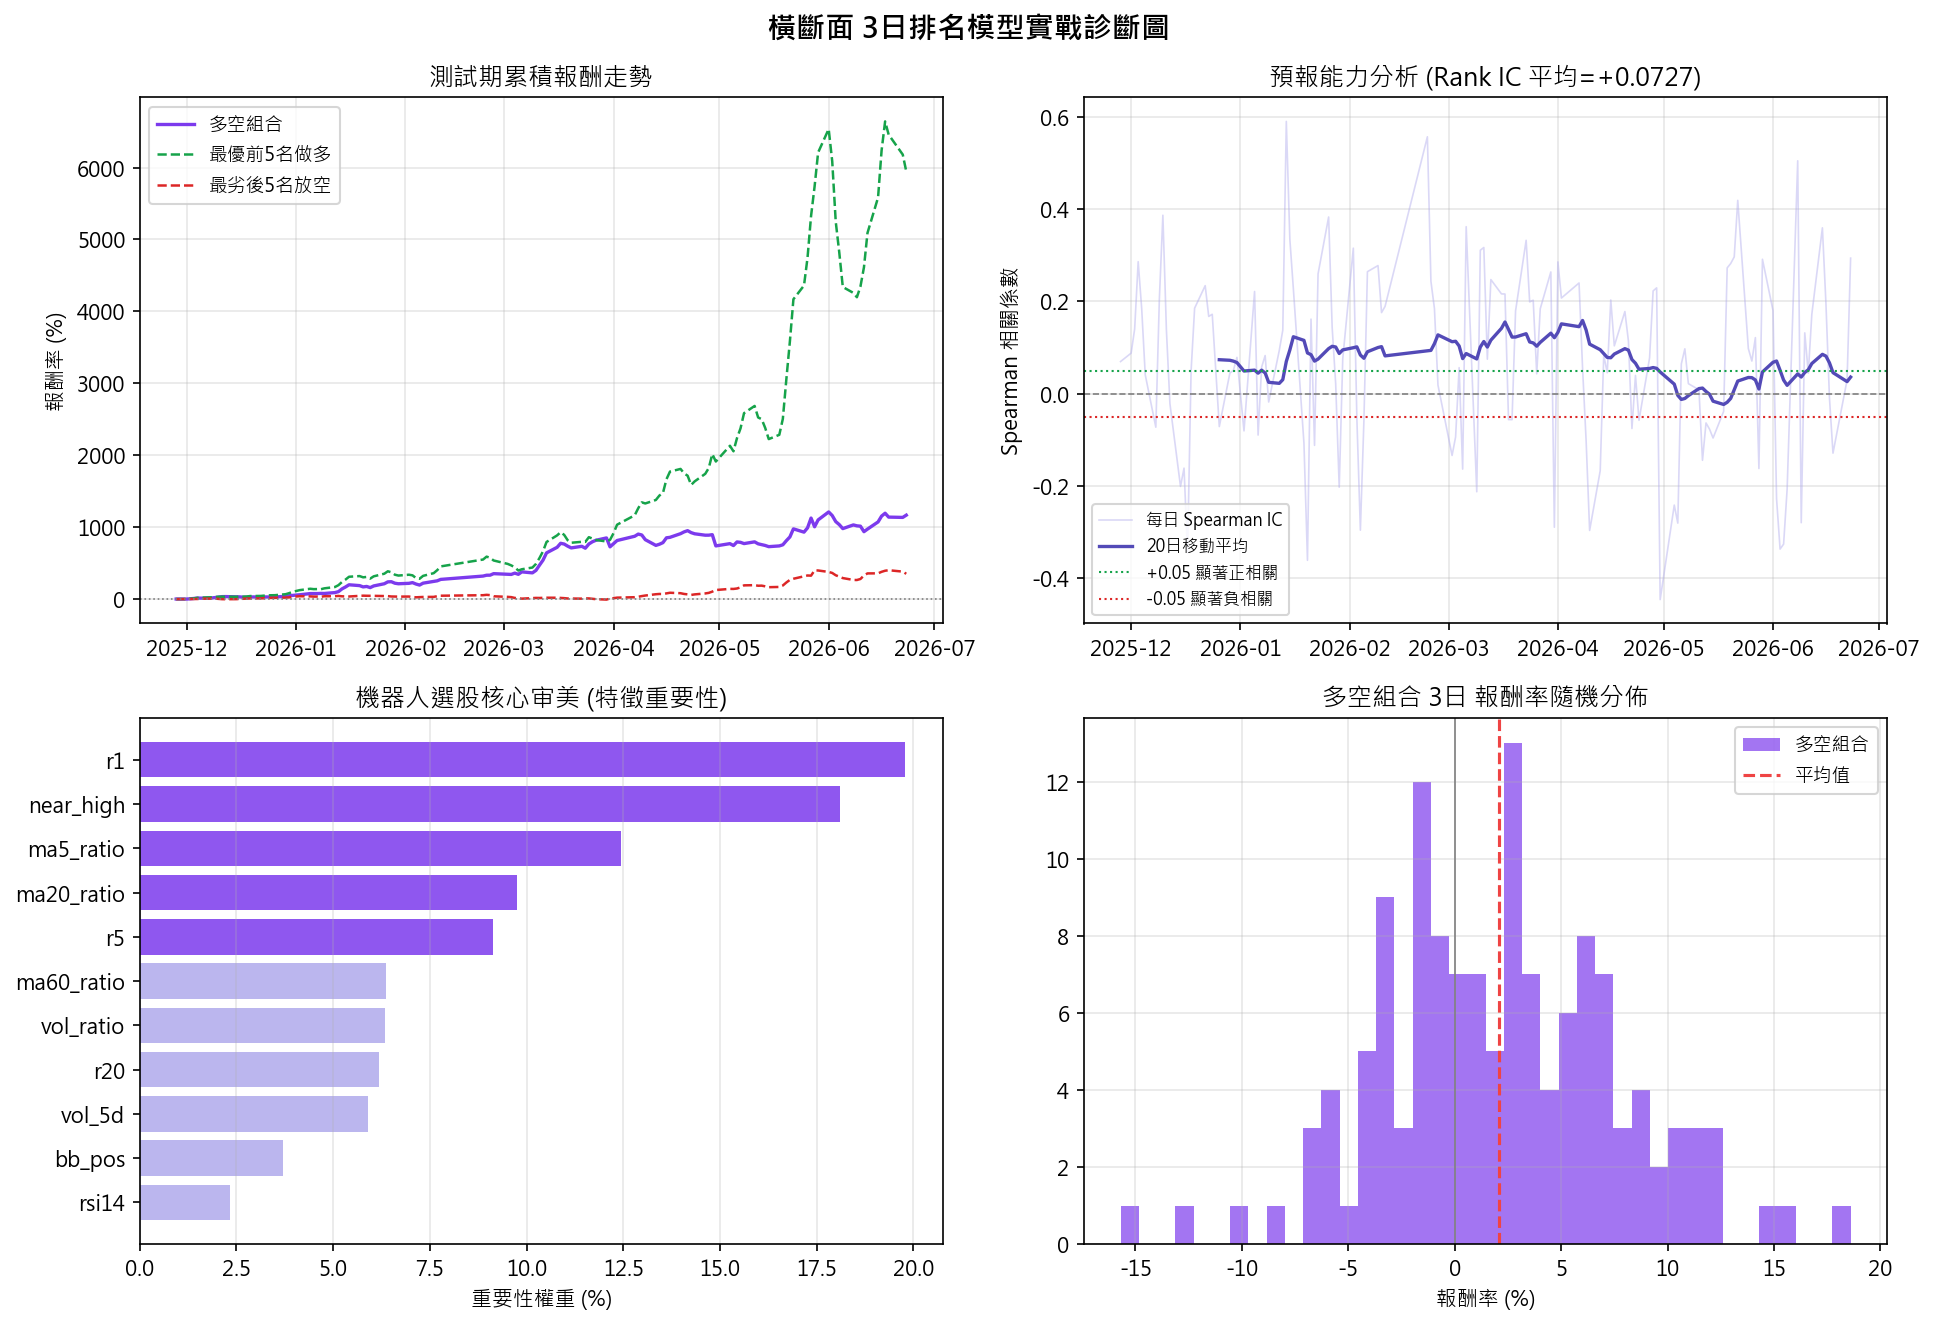
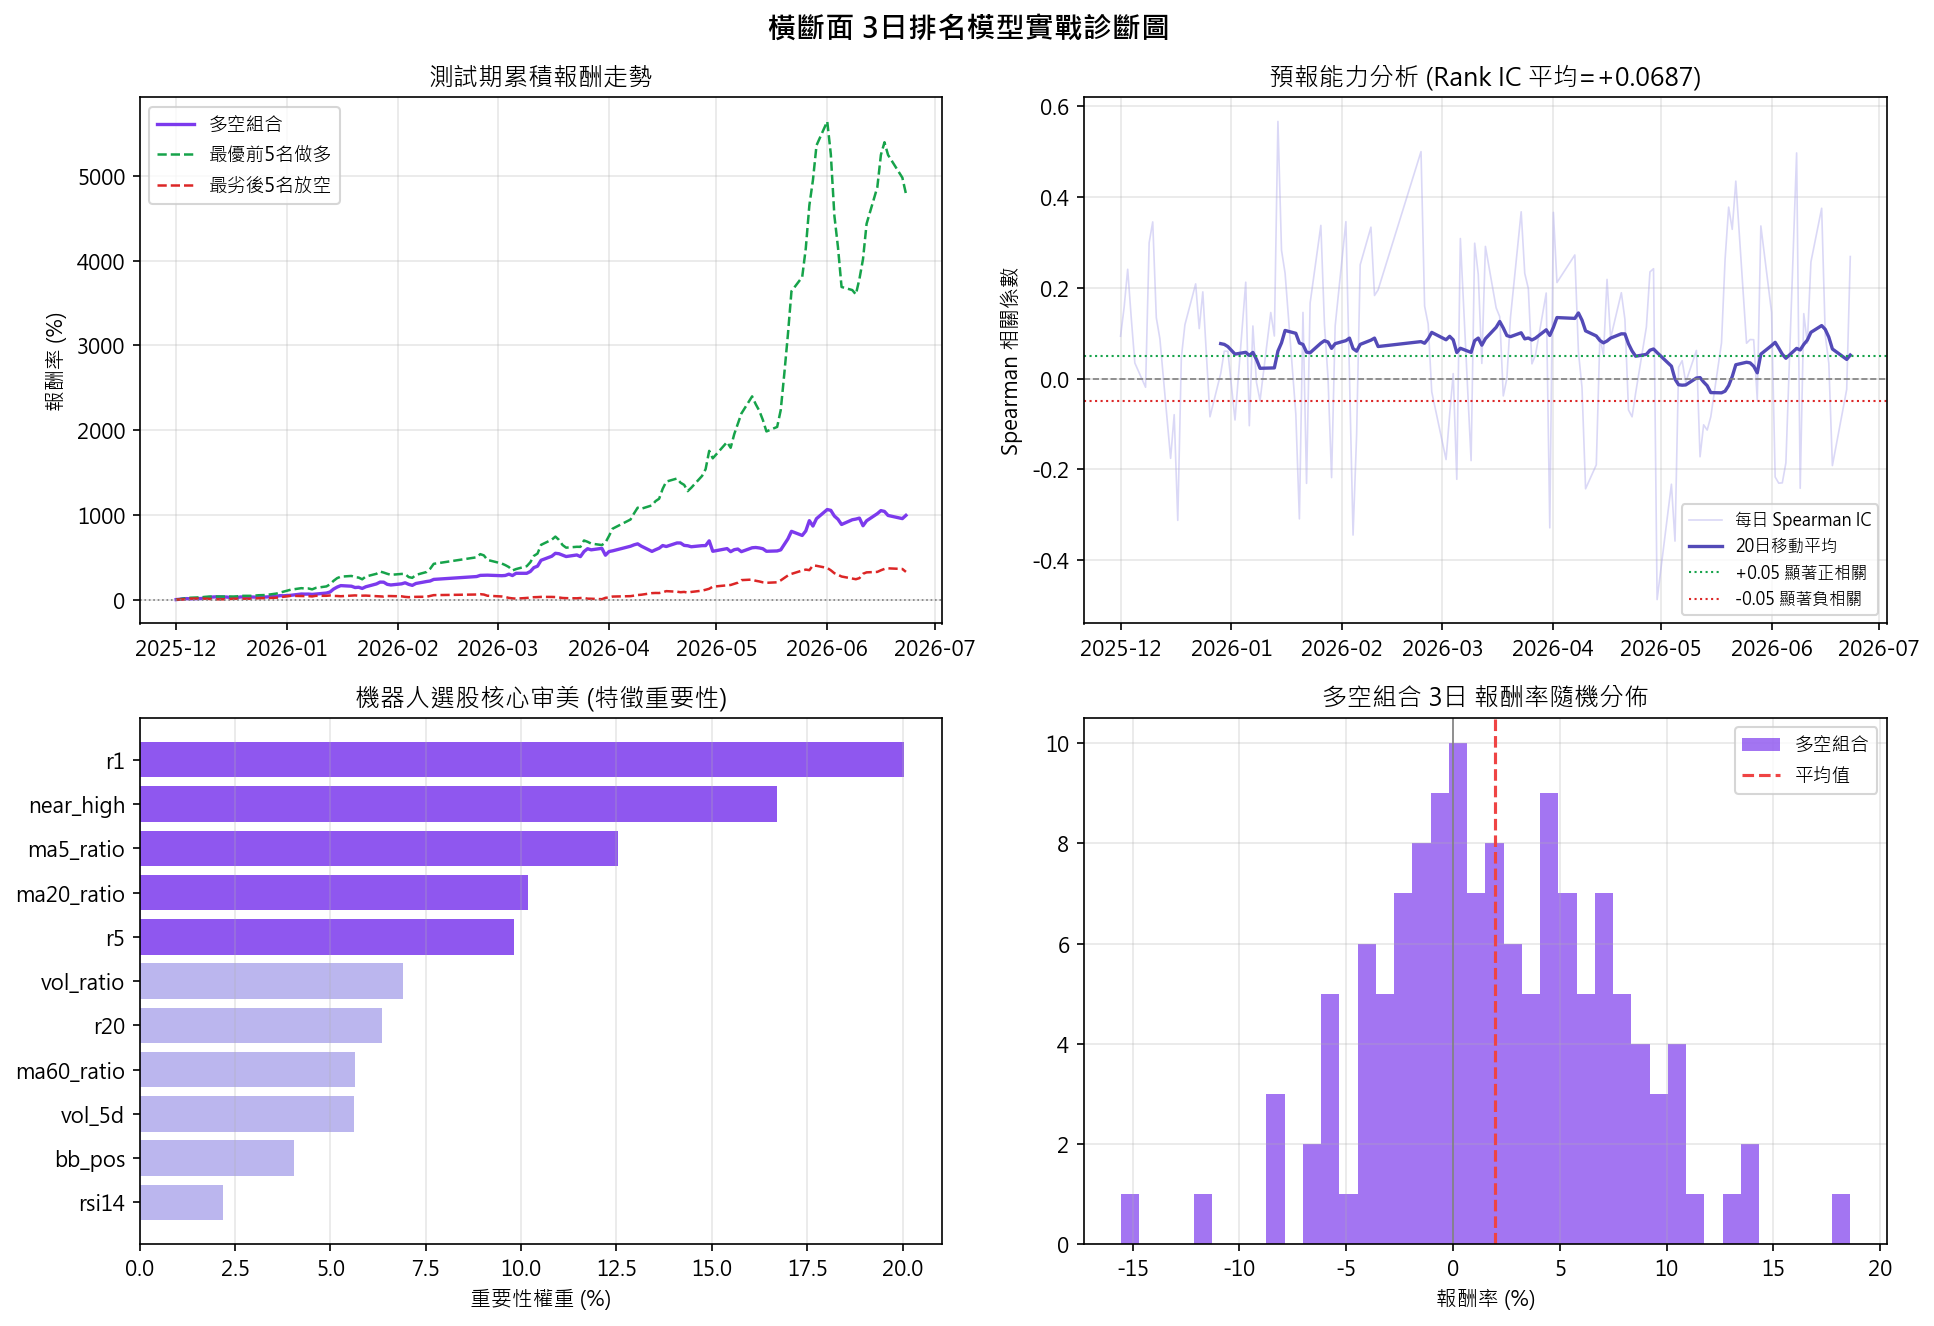
update: sync watchlist from SinoPac and fix OTC exchange classification
- watchlist.py: refresh MY_HOLDINGS from live API (14 stocks), fix OTC
  stock names (穩懋/家登/風采/IET-KY), correct 14 stocks wrongly
  classified as TWO to TW (中砂/倉佑/所羅門/奇鋐 etc.), update
  MY_WATCHLIST to 34 stocks from App export (2026-06-30)
- day27_ranking_3day.png: updated ranking chart

diff --git a/watchlist.py b/watchlist.py
@@ -1,68 +1,58 @@
-# watchlist.py — 我的自選股清單（來自永豐金 App）
-# 最後更新：2026-06-29
+# watchlist.py -- auto synced from SinoPac (2026-06-30)
+# MY_HOLDINGS 自動同步；MY_WATCHLIST 請手動維護
 
-# 現股庫存
 MY_HOLDINGS = {
     "00927.TW":  "群益半導體收益",
-    "2327.TW":   "國巨",
-    "2344.TW":   "華邦電",
-    "2375.TW":   "凱美",
-    "2408.TW":   "南亞科",
-    "2454.TW":   "聯發科",
-    "3035.TW":   "智原",
-    "3317.TWO":  "尼克森",    # OTC
-    "3481.TW":   "群創",
-    "3680.TWO":  "家登",      # OTC
-    "4958.TW":   "臻鼎-KY",
-    "4971.TWO":  "IET-KY",   # OTC
-    "6239.TW":   "力成",
+    "2327.TW":  "國巨*",
+    "2344.TW":  "華邦電",
+    "2375.TW":  "凱美",
+    "2408.TW":  "南亞科",
+    "2454.TW":  "聯發科",
+    "3035.TW":  "智原",
+    "3105.TWO":  "穩懋",  # OTC
+    "3317.TWO":  "風采",  # OTC
+    "3481.TW":  "群創",
+    "3680.TWO":  "家登",  # OTC
+    "4958.TW":  "臻鼎-KY",
+    "4971.TWO":  "IET-KY",  # OTC
+    "6239.TW":  "力成",
 }
 
-# 自選股
 MY_WATCHLIST = {
-    "2327.TW":   "國巨",
-    "2301.TW":   "光寶科",
-    "2356.TW":   "英業達",
-    "2357.TW":   "華碩",
-    "2376.TW":   "技嘉",
-    "2382.TW":   "廣達",
-    "3013.TW":   "晟銘電",
-    "3231.TW":   "緯創",
-    "2330.TW":   "台積電",
-    "2337.TW":   "旺宏",
-    "2344.TW":   "華邦電",
-    "2408.TW":   "南亞科",
-    "2454.TW":   "聯發科",
-    "3661.TW":   "世芯-KY",
-    "3711.TW":   "日月光投控",
-    "6451.TW":   "訊芯-KY",
-    "2317.TW":   "鴻海",
-    "2359.TW":   "所羅門",
-    "3665.TW":   "貿聯-KY",
-    "6643.TWO":  "M31",       # OTC
-    "6414.TW":   "樺漢",
-    "2395.TW":   "研華",
-    "8277.TWO":  "商丞",      # OTC
-    "1319.TW":   "東陽",
-    "1568.TW":   "倉佑",
-    "3131.TWO":  "弘塑",      # OTC
-    "3017.TW":   "奇鋐",
-    "8027.TWO":  "鈦昇",      # OTC
-    "8046.TW":   "南電",
-    "3037.TW":   "欣興",
-    "6533.TW":   "晶心科",
-    "2498.TW":   "宏達電",
-    "7556.TWO":  "意德士",    # OTC
-    "1560.TW":   "中砂",
-    "3680.TWO":  "家登",      # OTC
-    "2375.TW":   "凱美",
-    "2455.TW":   "全新",
-    "2467.TW":   "志聖",
-    "2637.TW":   "慧洋-KY",
-    "4971.TWO":  "IET-KY",   # OTC
-    "3105.TWO":  "穩懋",      # OTC
-    "6953.TWO":  "家碩",      # OTC
+    "1319.TW":  "東陽",
+    "1560.TW":  "中砂",
+    "1568.TW":  "倉佑",
+    "2301.TW":  "光寶科",
+    "2317.TW":  "鴻海",
+    "2330.TW":  "台積電",
+    "2337.TW":  "旺宏",
+    "2356.TW":  "英業達",
+    "2357.TW":  "華碩",
+    "2359.TW":  "所羅門",
+    "2376.TW":  "技嘉",
+    "2382.TW":  "廣達",
+    "2395.TW":  "研華",
+    "2455.TW":  "全新",
+    "2467.TW":  "志聖",
+    "2498.TW":  "宏達電",
+    "2637.TW":  "慧洋-KY",
+    "3013.TW":  "晟銘電",
+    "3017.TW":  "奇鋐",
+    "3037.TW":  "欣興",
+    "3131.TWO":  "弘塑",  # OTC
+    "3231.TW":  "緯創",
+    "3661.TW":  "世芯-KY",
+    "3665.TW":  "貿聯-KY",
+    "3711.TW":  "日月光投控",
+    "6414.TW":  "樺漢",
+    "6451.TW":  "訊芯-KY",
+    "6533.TW":  "晶心科",
+    "6643.TWO":  "M31",  # OTC
+    "6953.TWO":  "家碩",  # OTC
+    "7556.TWO":  "意德士",  # OTC
+    "8027.TWO":  "鈦昇",  # OTC
+    "8046.TW":  "南電",
+    "8277.TWO":  "商丞",  # OTC
 }
 
-# 合併（現股 + 自選股，自動去重）
 ALL_STOCKS = {**MY_HOLDINGS, **MY_WATCHLIST}
